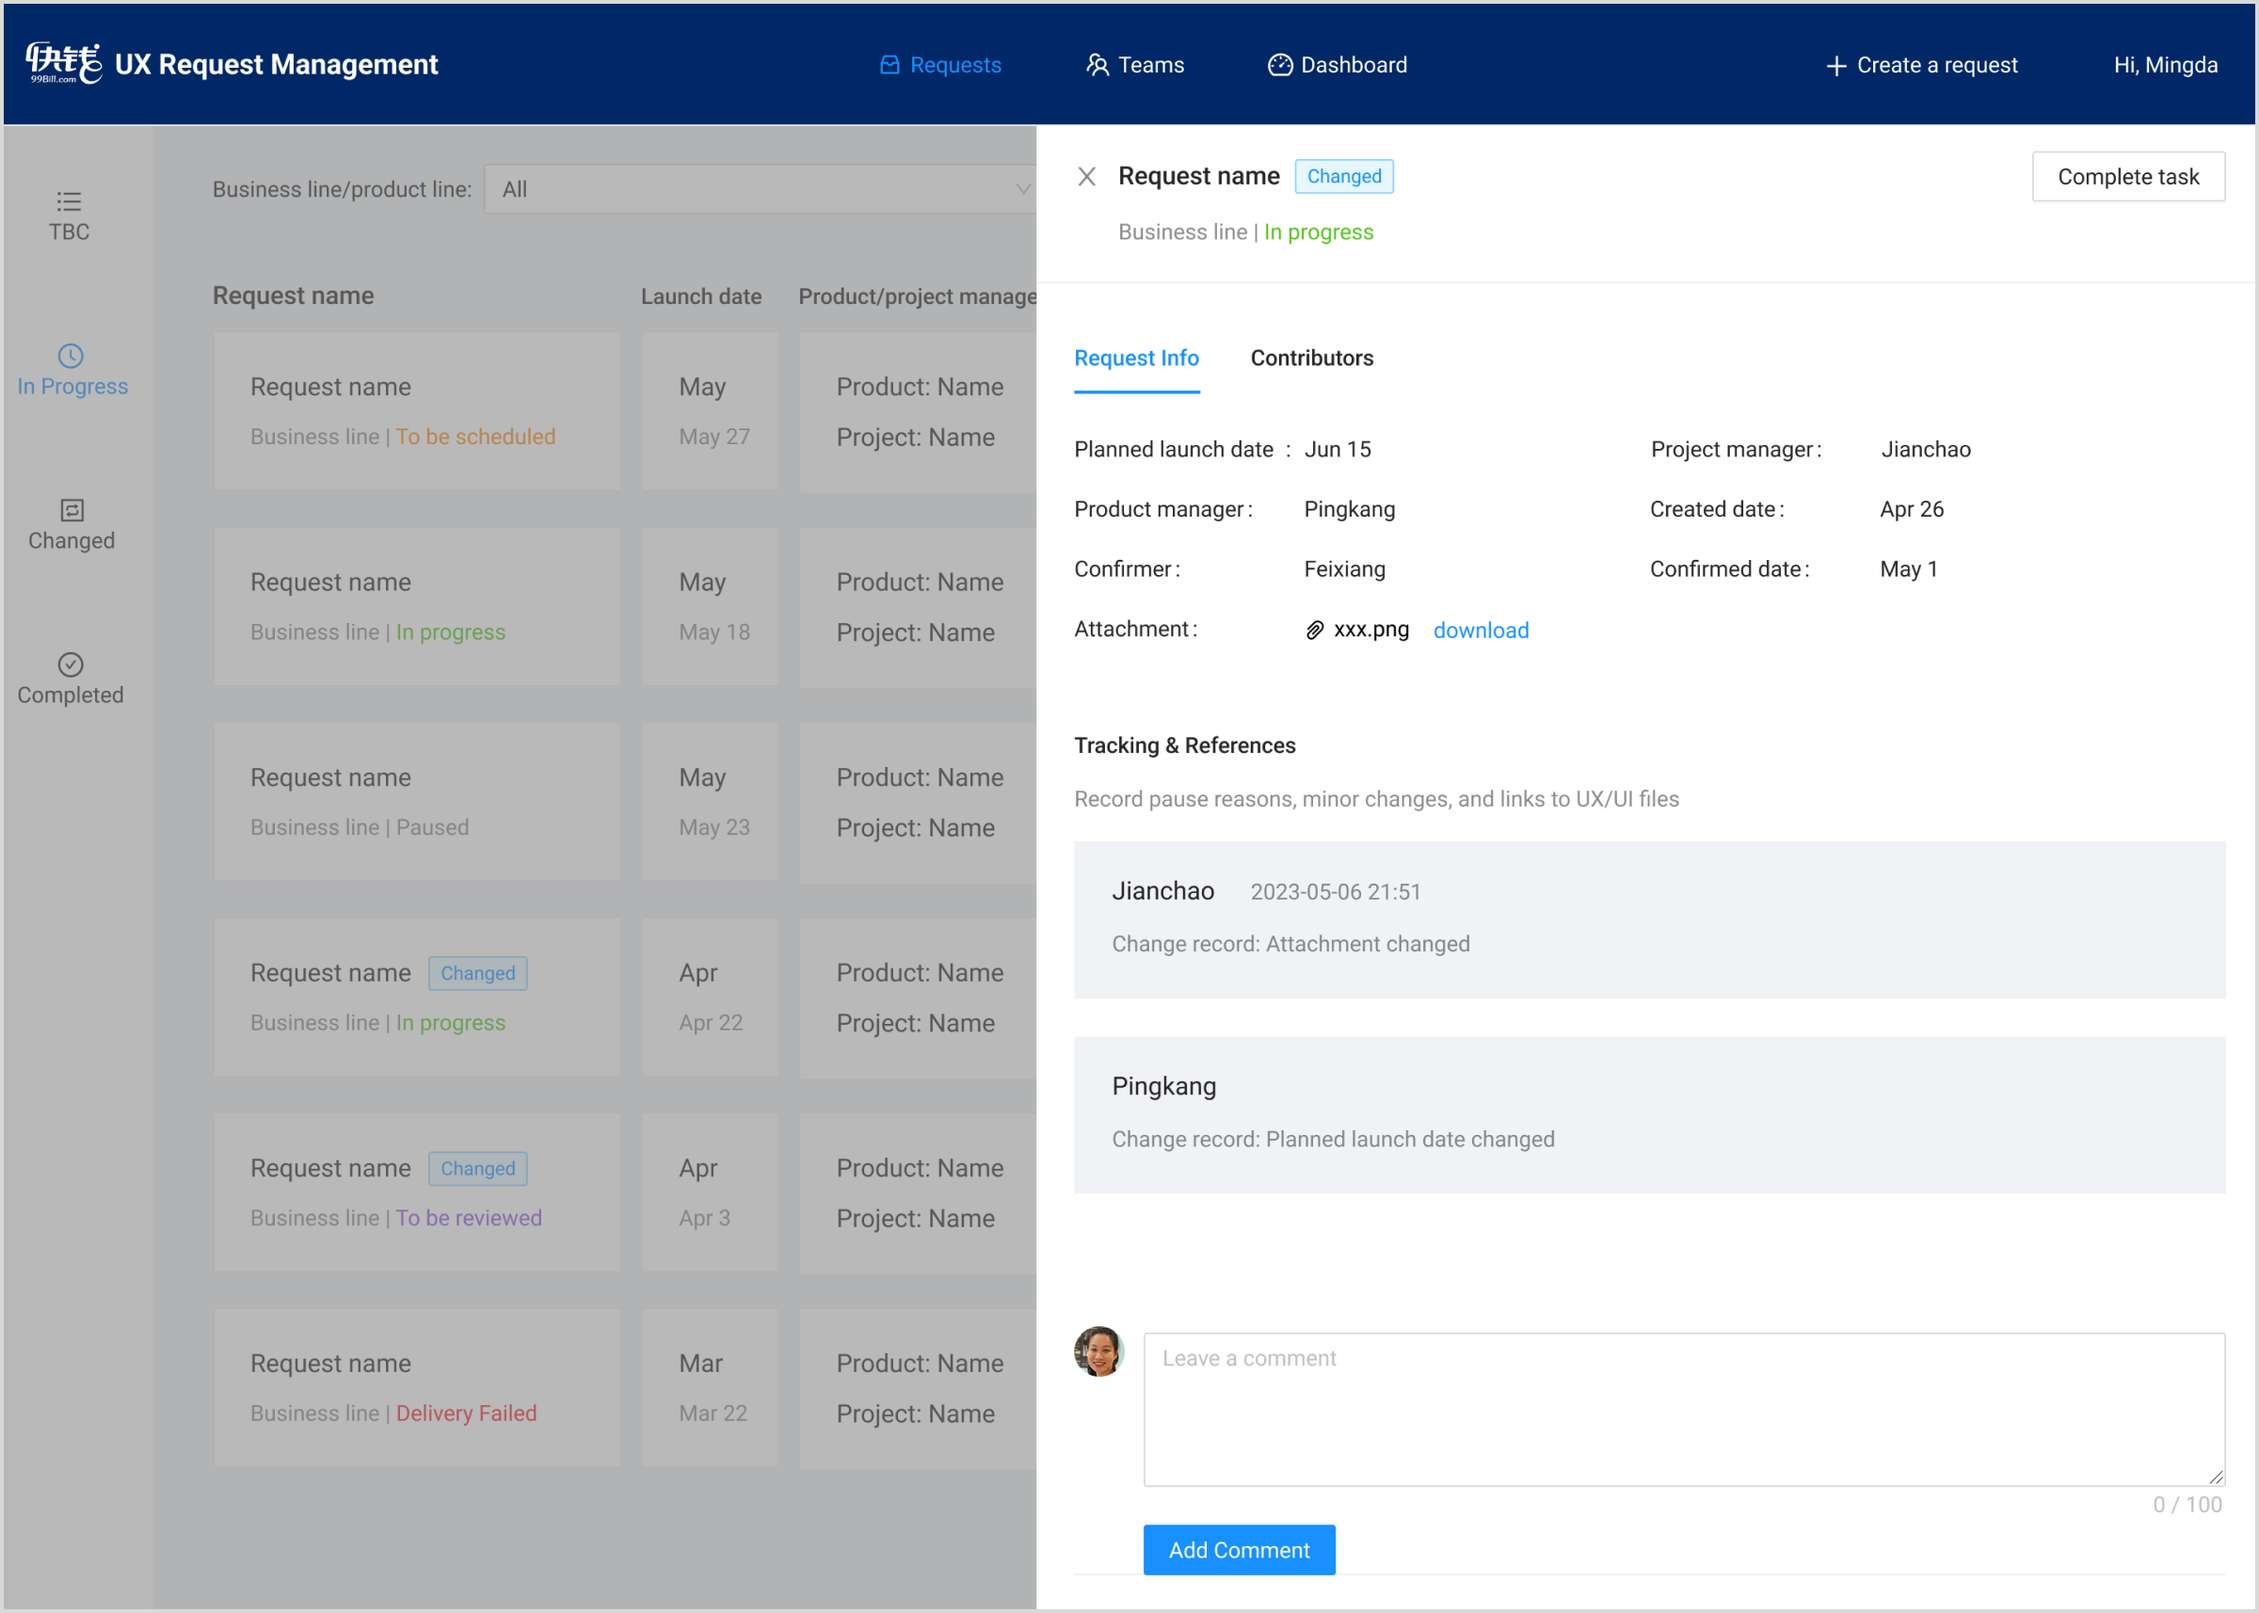
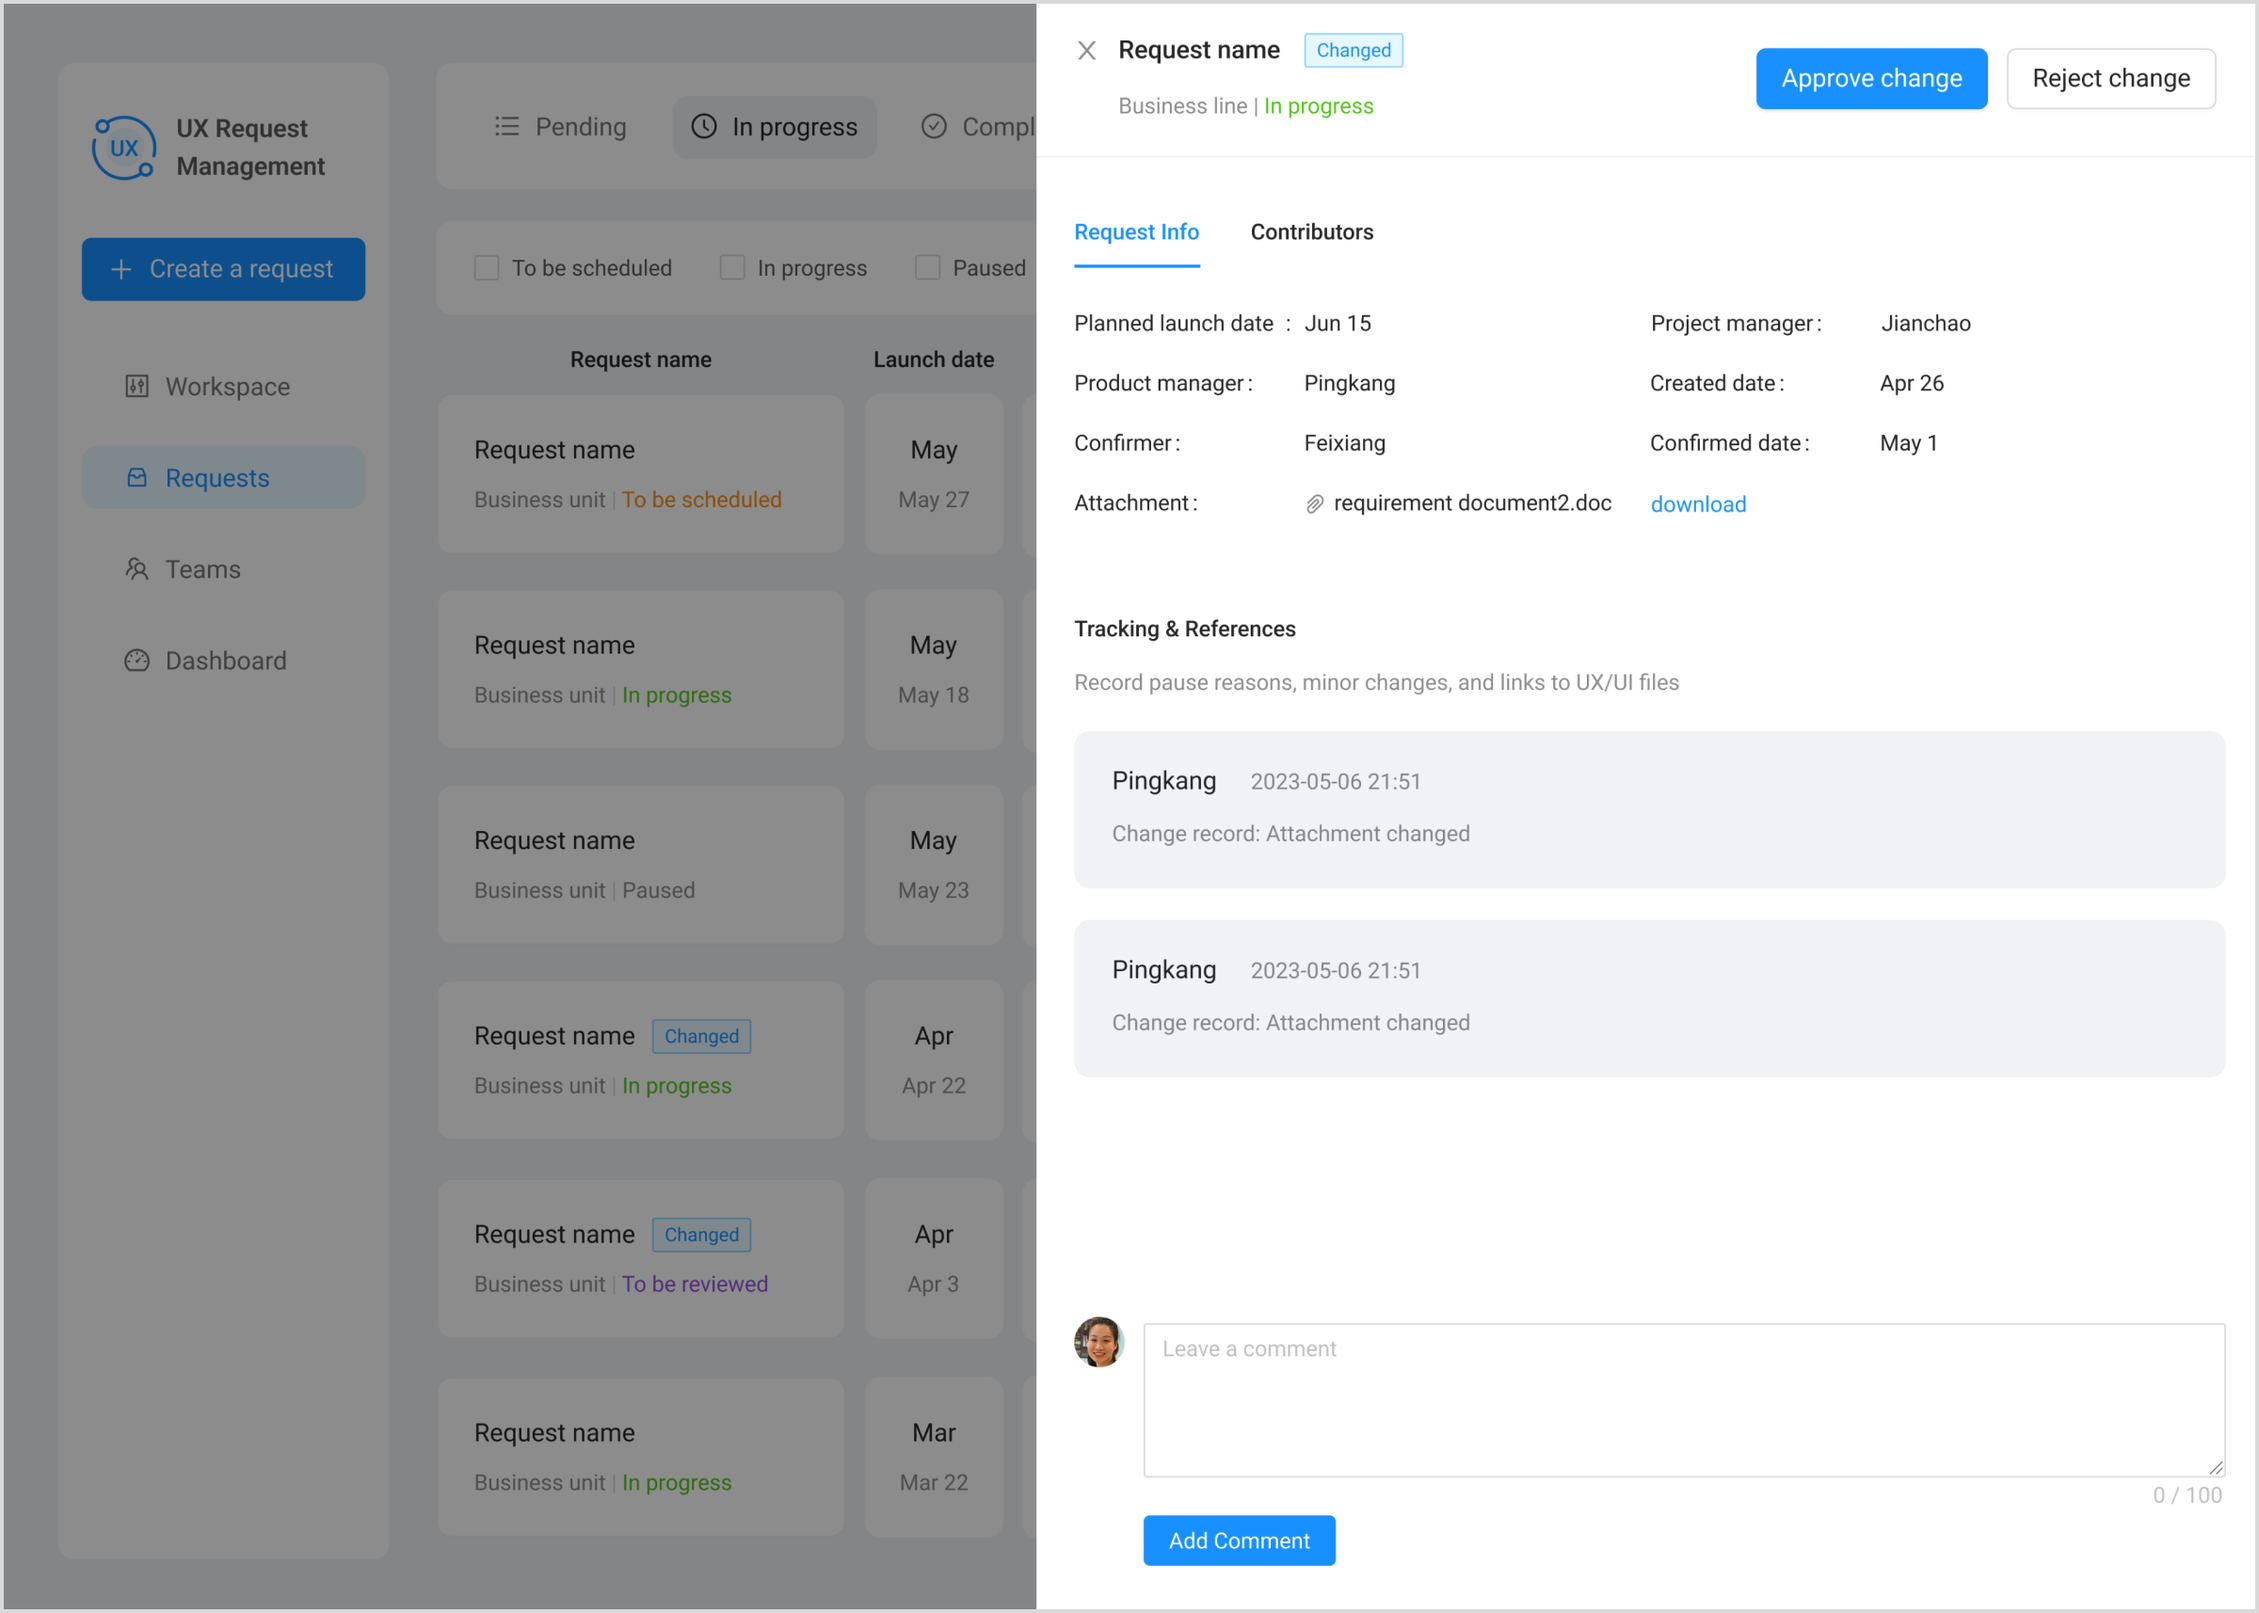
adjustcontents

diff --git a/projects/RequestManagement.html b/projects/RequestManagement.html
@@ -145,18 +145,18 @@
                         <span class="requestmanagement-container5-paragraph">How might we design an internal 
                             management platform that </span> 
                         <span class="requestmanagement-container5-paragraph">standardises request management, 
-                            allocates resources efficiently</span>
-                        <span class="requestmanagement-container5-paragraph">, and clearly </span>
+                            allocates resources efficiently, </span>
+                        <span class="requestmanagement-container5-paragraph">and clearly </span>
                         <span class="requestmanagement-container5-paragraph">showcases the UX team's value.</span>
                     </p>
                 </div>
             </div>
             <div class="inside-project-container">
                 <p class="inside-project-title2">Launch Results</p>
-                <p class="inside-project-paragraph">The platform launched successfully 
-                    after a month of testing, with the UX team using it to manage requests 
-                    and other stakeholders cooperating well. But much of the communication 
-                    around requests remained offline.</p>
+                <p class="inside-project-paragraph">After a month of testing, 
+                    the platform launched smoothly. The UX team began managing 
+                    requests through it, and with better collaboration across 
+                    teams, communication became noticeably more efficient.</p>
                 <div class="project-inside-container1">
                     <img src="../assets/images/requestmanagement-results.png" alt="project-inside-image" class="project-inside-image">
                 </div>
@@ -174,7 +174,7 @@
             <div class="inside-project-container">
                 <p class="inside-project-title2">Request Workflow</p>
                 <p class="inside-project-paragraph">Building on the existing process, 
-                    I streamlined and formalised the request journey, designing a clear 
+                    I streamlined the request journey, designing a clear 
                     status flow to guide how each request moves through the system.</p>
                 <div class="project-inside-container1">
                     <img src="../assets/images/requestmanagement-journey.png" alt="project-inside-image" class="project-inside-image">
@@ -182,10 +182,10 @@
             </div>
             <div class="inside-project-container">
                 <p class="inside-project-title2">Roles and Permissions</p>
-                <p class="inside-project-paragraph">One of the most challenging 
-                    parts of the platform was designing the permission structure. 
-                    I defined clear user roles and tailored access levels for 
-                    each role.</p>
+                <p class="inside-project-paragraph">One of the most challenging parts of the 
+                    platform was designing the permission structure. I defined user roles, 
+                    customised access levels, and created an admin panel for managing 
+                    permissions and business units.</p>
                 <div class="project-inside-container1">
                     <img src="../assets/images/requestmanagement-permission.png" alt="project-inside-image" class="project-inside-image">
                 </div>
@@ -193,9 +193,9 @@
             <div class="inside-project-container">
                 <p class="inside-project-title2">Information Architecture</p>
                 <p class="inside-project-paragraph">Our platform's information 
-                    architecture was structured into three sections: Requests, Teams, 
-                    and Statistics. Each page included relevant primary actions and 
-                    approval functions.</p>
+                    architecture was structured into four sections: Workspace, 
+                    Requests, Teams, and Dashboard. Each page included relevant 
+                    primary actions and approval functions.</p>
                 <div class="project-inside-container1">
                     <img src="../assets/images/requestmanagement-ia.png" alt="project-inside-image" class="project-inside-image">
                 </div>
@@ -204,7 +204,7 @@
                 <p class="inside-project-title2">Challenges</p>
                 <p class="inside-project-paragraph">After the initial launch, the platform's 
                     functionality remained basic, we encountered several challenges, 
-                    particularly with standardised processes and request communication</p>
+                    particularly with standardised processes and request communication.</p>
                 <div class="project-inside-container1">
                     <img src="../assets/images/requestmanagement-challenge.png" alt="project-inside-image" class="project-inside-image">
                 </div>
@@ -214,34 +214,44 @@
                 <div class="keypages-container1">
                     <div class="project-inside-container1">
                         <div class="keypages-title-container">
-                            <p class="keypages-title">Create a request</p>
+                            <p class="keypages-title">Workspace</p>
                         </div>
                         <div class="keypages-content-container">
-                            <p class="keypages-content">A "create a request" button was placed 
-                                in the top navigation bar so users could 
-                                quickly create a request from anywhere.</p>
+                            <p class="keypages-content">After logging in, users landed on their workspace, 
+                                where they could view this week's progress and updates. 
+                                The schedule overview helped them plan ahead and 
+                                manage their time.</p>
                         </div>
                         <div class="keypages-image-container">
                             <img src="../assets/images/requestmanagement-keypage1.png" alt="project-inside-image" class="project-inside-image">
                         </div>
+                    </div>
+                    <div class="project-inside-container1">
+                        <div class="keypages-title-container">
+                            <p class="keypages-title">Create a request</p>
+                        </div>
                         <div class="keypages-content-container">
-                            <p class="keypages-content">The form opened without navigating 
-                                away from the current page, helping users stay oriented.</p>
+                            <p class="keypages-content">A "create a request" button 
+                                was placed in the side navigation bar so users could 
+                                quickly create a request from anywhere. The form opened 
+                                without navigating away from the current page, helping 
+                                users stay oriented.</p>
                         </div>
                         <div class="keypages-image-container">
                             <img src="../assets/images/requestmanagement-keypage2.png" alt="project-inside-image" class="project-inside-image">
                         </div>
                         <div class="keypages-content-container">
-                            <p class="keypages-content">After submission, users were directed to the 
-                                "To Be Confirmed" request list, clearly showing the request status.</p>
+                            <p class="keypages-content">After submission, 
+                                users were directed to the "To Be Confirmed" 
+                                request list, clearly showing the request status.</p>
                         </div>
                     </div>
                     <div class="project-inside-container1">
                         <div class="keypages-title-container">
-                            <p class="keypages-title">Request in progress</p>
+                            <p class="keypages-title">Requests in progress</p>
                         </div>
                         <div class="keypages-content-container">
-                            <p class="keypages-content">Clearly display request status 
+                            <p class="keypages-content">Clearly displayed request status 
                                 and progress of contributors at each stage.</p>
                         </div>
                         <div class="keypages-image-container">
@@ -263,7 +273,7 @@
                     </div>
                     <div class="project-inside-container1">
                         <div class="keypages-title-container">
-                            <p class="keypages-title">Schedule a new item</p>
+                            <p class="keypages-title">Schedule a new task</p>
                         </div>
                         <div class="keypages-content-container">
                             <p class="keypages-content">Each stage had its own scheduling option, 
@@ -292,9 +302,10 @@
                             <p class="keypages-title">Dashboard</p>
                         </div>
                         <div class="keypages-content-container">
-                            <p class="keypages-content">The dashboard provided an 
-                                intuitive overview of request distribution and 
-                                resource allocation.</p>
+                            <p class="keypages-content">The dashboard 
+                                provided an intuitive overview of request 
+                                progress, distribution, and resource 
+                                allocation.</p>
                         </div>
                         <div class="keypages-image-container">
                             <img src="../assets/images/requestmanagement-keypage7.png" alt="project-inside-image" class="project-inside-image">

diff --git a/assets/css/insideproject.css b/assets/css/insideproject.css
@@ -262,7 +262,7 @@ body {
 .project-inside-container1 {
     display: flex;
     flex-direction: column;
-    gap: 20px;
+    gap: 30px;
 }
 
 .keypage-title {
